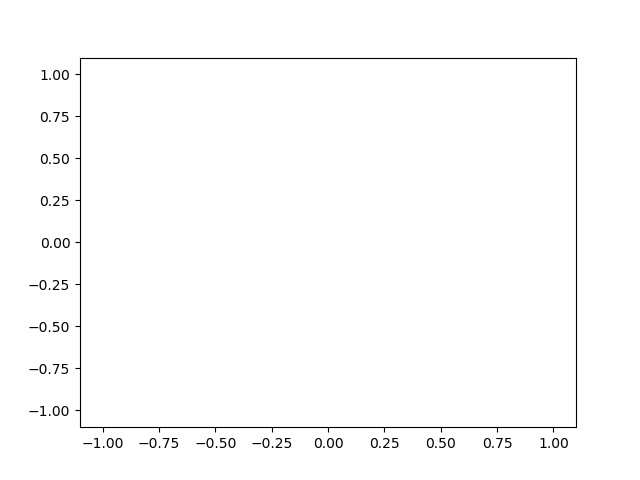
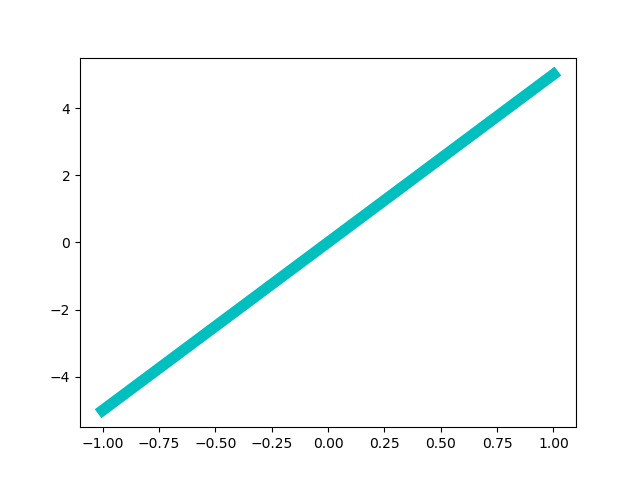
first commit

diff --git a/example.py b/example.py
@@ -2,7 +2,7 @@ import matplotlib.pyplot as plt
 import numpy as np
 
 x = np.linspace(-1, 1, 50)
-y = 1*x
+y = 5*x
 
-plt.plot(x, y,'r-',linewidth=0)
+plt.plot(x, y,'c-',linewidth=8)
 plt.savefig('chart.png')

diff --git a/README.md b/README.md
@@ -1,4 +1,4 @@
-# Line Chart Patricia 
+# Line Chart April 
 
 Chart example for Python
 
